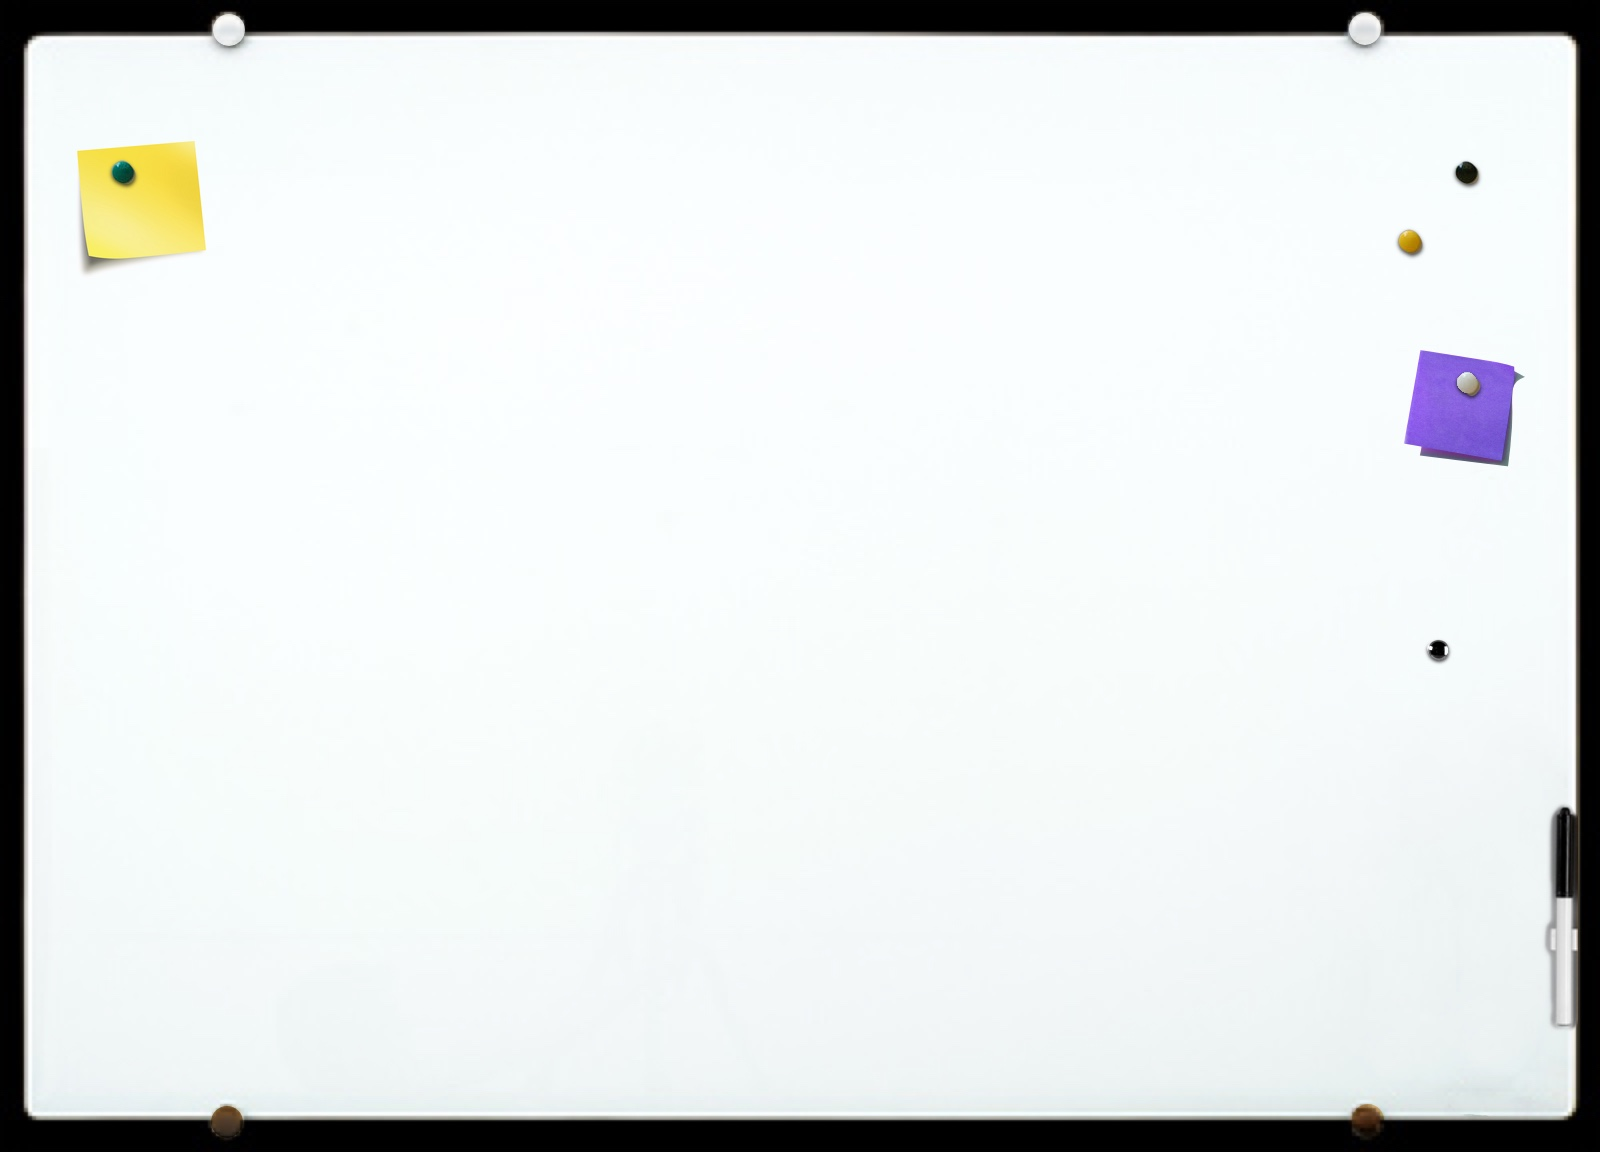
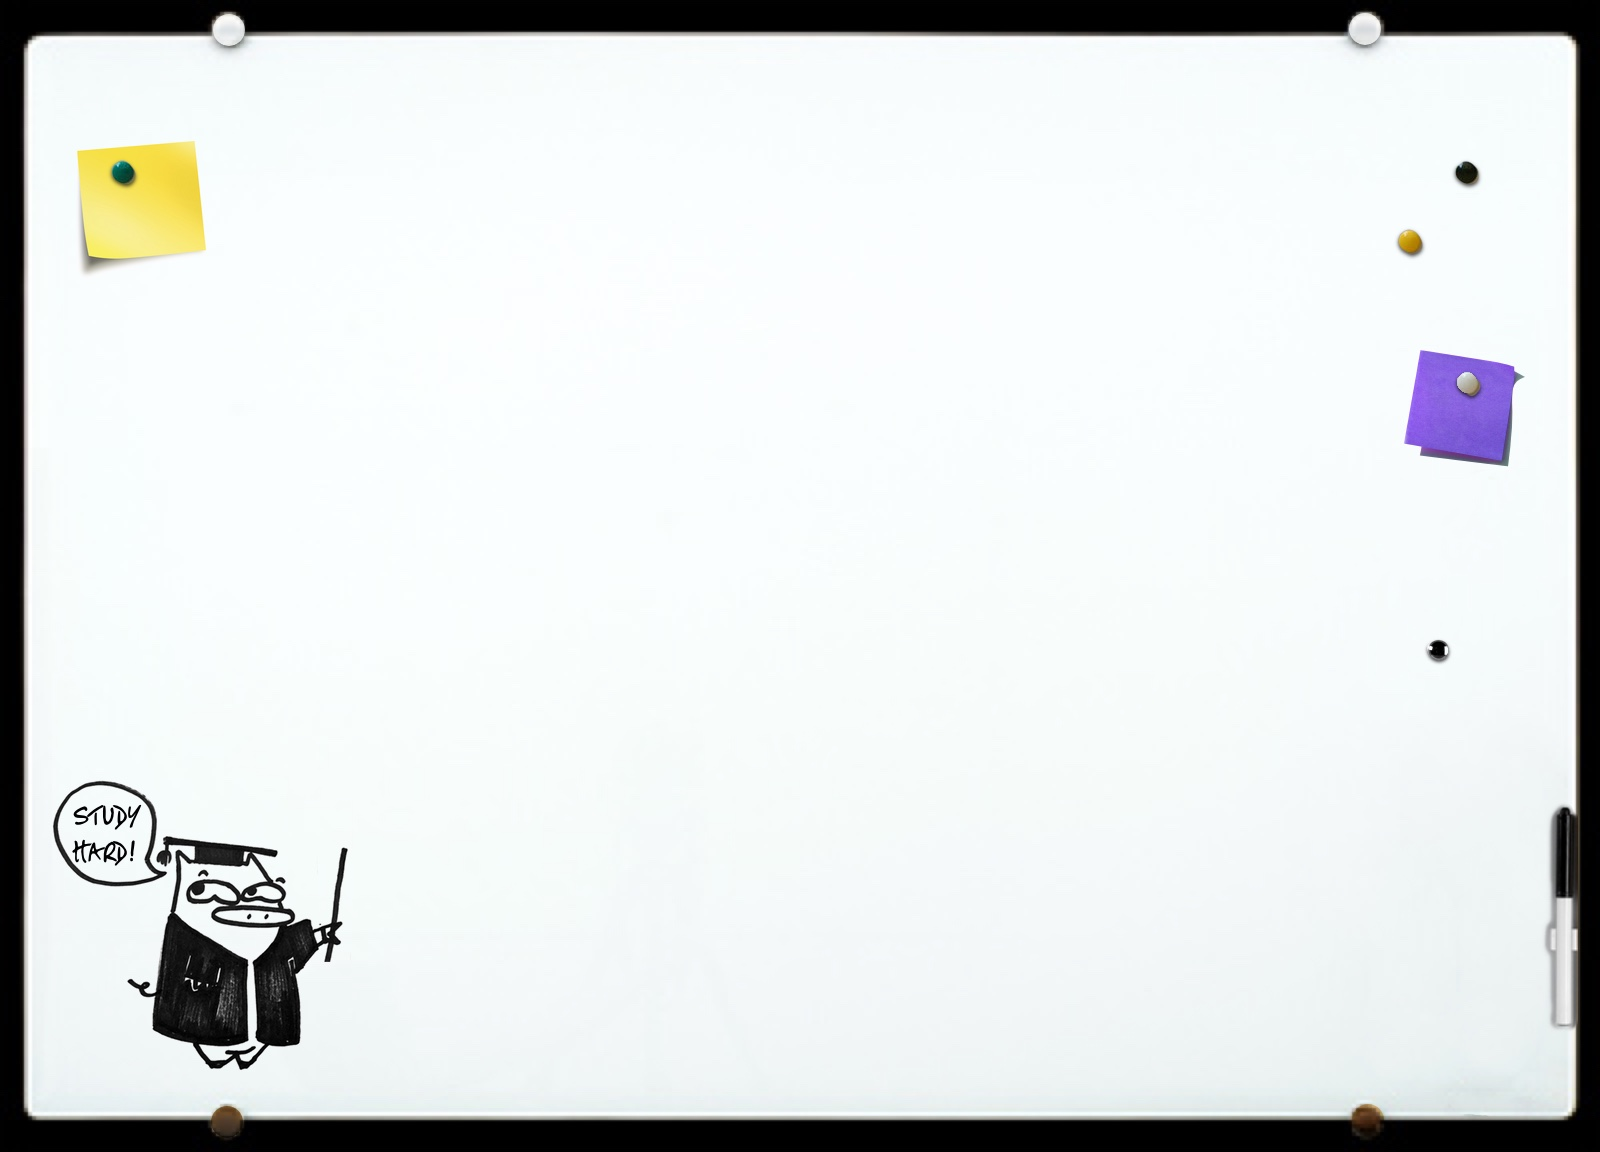
updated background image and added retake quiz button

Changed region(s): [[0.0312, 0.6562, 0.2188, 0.9375]]

diff --git a/javascripts/results.js b/javascripts/results.js
@@ -1,6 +1,7 @@
 function showResults(arr) {
   var text = '<h1 id="score"></h1><h1 id="average"></h1>';
   text += '<div id="question_results">'
+  text += '<form><input id="prev_score" type="hidden" value=""><input id="start" type="button" value="Retake Quiz" onclick="parent.location=' + "'quiz.html'" + '"></form>'
   var i;
 
 //loop through all questions in json
@@ -68,9 +69,14 @@ function showResults(arr) {
 
   var score = count / 4 * 100;
   document.getElementById('score').innerHTML = 'Your score is ' + score + '%';
+  document.getElementById('prev_score').value = score;
 
 	//add score to json array
-	scores.push({"score":score});
+  scores.push({"score":score});
+
+  // NOT WORKING
+	// document.cookie['scores'].push({"score":score});
+  // var scores = document.cookie['scores'];
 
 	//add all scores together and divide by the length to get the average
 	var i;

diff --git a/index.html b/index.html
@@ -7,6 +7,7 @@
   <link rel="stylesheet" type="text/css" href="stylesheets/normalize.css">
   <script src="http://ajax.googleapis.com/ajax/libs/jquery/2.1.1/jquery.min.js"></script>
   <script src="javascripts/text_animation.js"></script>
+  <script src="javascripts/results.json"></script>
 </head>
 <body>
   
@@ -21,6 +22,8 @@
 </div>
 
 <script>
+  document.cookie = 'scores=' + scores;
+
   fadeinText([$('h1'),
               $('h2').eq(0),
               $('h2').eq(1),

diff --git a/quiz.html b/quiz.html
@@ -15,6 +15,8 @@
 <div id="questions"></div>
 
 <script>
+console.log(document.cookie['scores']);
+console.log(document.cookie);
   var question = 0;
   var answers = [];
   showQuestions(questions, question);

diff --git a/results.html b/results.html
@@ -22,7 +22,6 @@
 
   for (var i = 0; i < questions.length; i++) {
     createChart(questions[i].answers, i);
-    console.log(questions[i].answers);
   };
 
   fadeinText([$('h1').eq(0),

diff --git a/stylesheets/style.css b/stylesheets/style.css
@@ -61,6 +61,10 @@ label {
   margin-bottom: 75px;
 }
 
+#results {
+  text-align: center;
+}
+
 /* BUTTONS */
 #start, #submit {
   padding: 10px;
